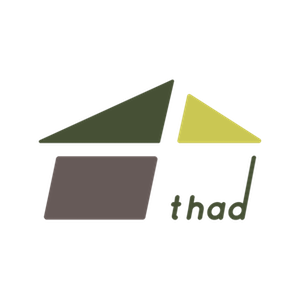
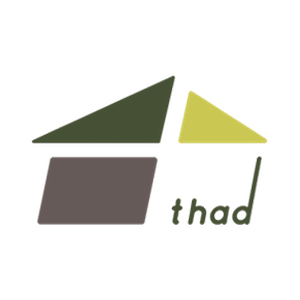
ロゴ修正、微調整など

diff --git a/index.html b/index.html
@@ -1,10 +1,20 @@
 <!DOCTYPE html>
 <html>
 <head>
+  <!-- Global site tag (gtag.js) - Google Analytics -->
+  <script async src="https://www.googletagmanager.com/gtag/js?id=UA-117938989-1"></script>
+  <script>
+    window.dataLayer = window.dataLayer || [];
+    function gtag(){dataLayer.push(arguments);}
+    gtag('js', new Date());
+
+    gtag('config', 'UA-117938989-1');
+  </script>
   <meta charset="UTF-8">
   <meta name="viewport" content="width=device-width,initial-scale=1">
   <meta name="description" content="名古屋市立大学芸術工学部の作品展「卓展」の告知webサイトです。">
   <title>卓展2018</title>
+  <link href="https://fonts.googleapis.com/earlyaccess/roundedmplus1c.css" rel="stylesheet" />
   <link rel="stylesheet" type="text/css" href="css/normalize.css">
   <link rel="stylesheet" type="text/css" href="css/bulma.css">
   <link rel="stylesheet" type="text/css" href="css/default.css">
@@ -35,7 +45,7 @@
         </div>
       </div>
 
-      <p class="font-small has-text-grey text-center l-bottom-20"><i class="fas fa-arrow-down"></i> ロゴをクリックしたらスライドが見れるよ！</p>
+      <p class="font-small has-text-grey text-center l-bottom-10"><i class="fas fa-arrow-down"></i> ロゴをクリックしたらスライドが見れるよ！</p>
       <div class="logo-container columns is-multiline is-mobile">
         <!-- jQueryでコンテンツ生成 -->
       </div>
@@ -70,7 +80,8 @@
               <img src="img/LQQP.png">
             </div>
             <p class="group-discription">
-              LQQP (ループ) は映像・音楽を作ることを中心とした卓です。グラデーションを基調としたビジュアルからわかる通りあらゆる要素が混ざり合ってスムースに繫がるような作品づくりを目指していきます。
+              LQQP (ループ) は映像・音楽を作ることを中心とした卓です。<br>
+              グラデーションを基調としたビジュアルからわかる通りあらゆる要素が混ざり合ってスムースに繫がるような作品づくりを目指していきます。
             </p>
           </div>
           <div class="column is-three-quarters">
@@ -90,12 +101,14 @@
               <img src="img/cetrois.png">
             </div>
             <p class="group-discription">
-              CE TROISはカーデザインを学ぶ卓です。スケッチからカラーやマテリアル、クレイモデルまでのカーデザインの一連の流れを学ぶことで、表現力の向上を図ります。クルマやかっこいいデザインがしたい人はぜひ参加してください！
+              CETROISはカーデザインを学ぶ卓です。<br>
+              スケッチからカラーやマテリアル、クレイモデルまでのカーデザインの一連の流れを学ぶことで、表現力の向上を図ります。<br>
+              クルマやかっこいいデザインがしたい人はぜひ参加してください！
             </p>
           </div>
           <div class="column is-three-quarters">
             <div class="group-slide">
-              <iframe class="group-iframe" src="https://docs.google.com/presentation/d/e/2PACX-1vQbAdpINhyE9c7J-EsZ4ObmlzYHjx_J4DpL6nQcpBZx6iBNocj8VQjlqJSLfqXReoRGUi7f3vM5DuTp/embed?start=false&loop=false&delayms=3000" frameborder="0" width="1365" height="1053" allowfullscreen="true" mozallowfullscreen="true" webkitallowfullscreen="true"></iframe>
+              <iframe class="group-iframe" src="https://docs.google.com/presentation/d/e/2PACX-1vRsnMyh0IZDh0-3G-mf8otB4qqjnamilE0CqW-_SyYDEZLHHnSsY03n6F3CT9NvFUei56eATVy3KT8s/embed?start=false&loop=false&delayms=3000" frameborder="0" width="1365" height="1053" allowfullscreen="true" mozallowfullscreen="true" webkitallowfullscreen="true"></iframe>
             </div>
           </div>
         </div>
@@ -110,12 +123,13 @@
               <img src="img/asso.png">
             </div>
             <p class="group-discription">
-              assoはユーザーにとっての「うれしい体験」を追求したIoTプロダクト・サービスをデザインする卓。一連のプロダクトデザインのプロセスを実践し、その人にとって本当に使いたいと思えるようなモノとコトを提案します。
+              うれしい体験」を追求したプロダクト・サービスをデザインする卓。<br>
+              一連のプロダクトデザインのプロセスを実践し、その人にとって本当に使いたいと思えるようなモノとコトを提案します
             </p>
           </div>
           <div class="column is-three-quarters">
             <div class="group-slide">
-              <iframe class="group-iframe" src="https://docs.google.com/presentation/d/e/2PACX-1vTF2C5he2optEWBs7yZNhxeYtsw1CAXu4oz9gbQV6EUNhjlZ4gVlS_s3XCOAO8fA8dRHXyBY-xySa6R/embed?start=false&loop=false&delayms=3000" frameborder="0" allowfullscreen="true" mozallowfullscreen="true" webkitallowfullscreen="true"></iframe>
+              <iframe class="group-iframe" src="https://docs.google.com/presentation/d/e/2PACX-1vTv7dAfXwLCQJJO4qjXAMjGsG1GbPTPF2BAlKaaZ1-t8KZIhRTyJKd8LtPRAoJT5lp_gnZaJ9BXISv6/embed?start=false&loop=false&delayms=3000" frameborder="0" allowfullscreen="true" mozallowfullscreen="true" webkitallowfullscreen="true"></iframe>
             </div>
           </div>
         </div>
@@ -130,7 +144,9 @@
               <img src="img/dotus.png">
             </div>
             <p class="group-discription">
-              dotusはプロダクトデザインについて学ぶ卓です。ハンディ家電を一人一つ提案してもらい、モックアップまで行います。カタチを考える時間を多く取り、ユーザビリティ（使いやすさなど）や魅力のある造形を追求します
+              dotusはプロダクトデザインについて学ぶ卓です。<br>
+              ハンディ家電を一人一つ提案してもらい、モックアップまで行います。<br>
+              カタチを考える時間を多く取り、ユーザビリティ（使いやすさなど）や魅力のある造形を追求します。
             </p>
           </div>
           <div class="column is-three-quarters">
@@ -150,8 +166,9 @@
               <img src="img/ideal.png">
             </div>
             <p class="group-discription">
-              idealは各人が想像する未来のデジタルコンテンツを制作する卓です。
-              ideal(理想)への様々なアプローチを考え(idea)、対処(I deal)していく過程を大切にします。未来の成功の糧になる失敗を私としませんか?
+              idealは各人が想像する未来のデジタルコンテンツを制作する卓です。<br>
+              ideal(理想)への様々なアプローチを考え(idea)、対処(I deal)していく過程を大切にします。<br>
+              未来の成功の糧になる失敗を私としませんか?
             </p>
           </div>
           <div class="column is-three-quarters">
@@ -171,7 +188,8 @@
               <img src="img/ZAxis.png">
             </div>
             <p class="group-discription">
-              Z-Axis（ザクシス）は、3DCGを用いたコンテンツ制作をする卓です。映像・ゲーム・立体造形に関わる3DCGソフトウェアについての学習をメインに、各々が魅力的だと感じるコンテンツの制作を目指します。
+              Z-Axis（ザクシス）は、3DCGを用いたコンテンツ制作をする卓です。<br>
+              映像・ゲーム・立体造形に関わる3DCGソフトウェアについての学習をメインに、各々が魅力的だと感じるコンテンツの制作を目指します。
             </p>
           </div>
           <div class="column is-three-quarters">
@@ -191,12 +209,13 @@
               <img src="img/mico.png">
             </div>
             <p class="group-discription">
-              mico（ミーコ）は日常の小さな問題をスマートに解決するアイデア雑貨を制作する卓です。アイデア展開とプロトタイピング（試作）を中心的に行い、斬新で実用的なモノを考え、最終的には実物を作ります。
+              mico（ミーコ）は日常の小さな問題をスマートに解決するアイデア雑貨を制作する卓です。<br>
+              アイデア展開とプロトタイピング（試作）を中心的に行い、斬新で実用的なモノを考え、最終的には実物を作ります。
             </p>
           </div>
           <div class="column is-three-quarters">
             <div class="group-slide">
-              <iframe class="group-iframe" src="  https://docs.google.com/presentation/d/e/2PACX-1vR4WFsEk8Xc7epjjvbEqUnpg82npDhM8PC7f507lc6nDH_SjwIpT71zuEXyLAGyBXP6tbDRThfG9kGh/embed?start=false&loop=false&delayms=3000&slide=id.p10" frameborder="0" marginwidth="0" marginheight="0" scrolling="no" allowfullscreen></iframe>
+              <iframe class="group-iframe" src="  https://docs.google.com/presentation/d/e/2PACX-1vR4WFsEk8Xc7epjjvbEqUnpg82npDhM8PC7f507lc6nDH_SjwIpT71zuEXyLAGyBXP6tbDRThfG9kGh/embed?start=false&loop=false&delayms=3000" frameborder="0" marginwidth="0" marginheight="0" scrolling="no" allowfullscreen></iframe>
             </div>
           </div>
         </div>
@@ -211,7 +230,8 @@
               <img src="img/Ex.png">
             </div>
             <p class="group-discription">
-              Exはインスタレーションを学ぶ卓です。ディスカッションをメインに各々のアイデアの幅を広げていきたいと考えています。
+              Exはインスタレーションを学ぶ卓です。<br>
+              ディスカッションをメインに各々のアイデアの幅を広げていきたいと考えています。<br>
               自分の世界観をインスタレーションで表現してみませんか？
             </p>
           </div>
@@ -232,7 +252,8 @@
               <img src="img/Charamel.png">
             </div>
             <p class="group-discription">
-              Charamel（キャラメル）はキャラクターや世界観を創造する卓です。勉強会で表現の仕方を学び、映像や本、模型やグッズなど様々な方法で自分の想いをカタチにしていきます
+              Charamel（キャラメル）はキャラクターや世界観を創造する卓です。<br>
+              勉強会で表現の仕方を学び、映像や本、模型やグッズなど様々な方法で自分の想いをカタチにしていきます。
             </p>
           </div>
           <div class="column is-three-quarters">
@@ -252,17 +273,13 @@
               <img src="img/paplica.png">
             </div>
             <p class="group-discription">
-              paplica(パプリカ)はスマホアプリを作る卓です。
-              「こんなアプリがあったらいいな」などの思いからアイディアを提案し、
-              誰がどのようにアプリを使うのかを考えて、実際に動くアプリを作ります。<br><br>
-
-              【webサイト】<br>
-              <a href="#">taku-ten.com/paplica</a>
+              paplica(パプリカ)はスマホアプリを作る卓です。<br>
+              「こんなアプリがあったらいいな」などの思いからアイディアを提案し、誰がどのようにアプリを使うのかを考えて、実際に動くアプリを作ります。
             </p>
           </div>
           <div class="column is-three-quarters">
             <div class="group-slide">
-              <iframe class="group-iframe" src="" frameborder="0" marginwidth="0" marginheight="0" scrolling="no" allowfullscreen></iframe>
+              <iframe class="group-iframe" src="https://docs.google.com/presentation/d/e/2PACX-1vQ22zx4G3ppf6Z0n1zG0K0_l1toE6Je72aHT59okGzxU22YEQiz4M9Q6rys2GknrsXBfGERpWd78uRK/embed?start=false&loop=false&delayms=3000" frameborder="0" marginwidth="0" marginheight="0" scrolling="no" allowfullscreen></iframe>
             </div>
           </div>
         </div>
@@ -277,18 +294,19 @@
               <img src="img/thad.png">
             </div>
             <p class="group-discription">
-              thad
+              thad(サッド)は「名前のつかない家具」を提案し、制作する卓です。<br>
+              既存の型にあてはまらない新しい家具をつくることを目指します。
             </p>
           </div>
           <div class="column is-three-quarters">
             <div class="group-slide">
-              <iframe class="group-iframe" src="" frameborder="0" marginwidth="0" marginheight="0" scrolling="no" allowfullscreen></iframe>
+              <iframe class="group-iframe" src="https://docs.google.com/presentation/d/e/2PACX-1vRY3aBTIsYdDNt6SUmYBXwHn7E-UXv0OpVM9KMluSiw8dM7tjIGAbjJ12UO5qxMnUOIQ6JmVDixSmj4/embed?start=false&loop=false&delayms=3000" frameborder="0" marginwidth="0" marginheight="0" scrolling="no" allowfullscreen></iframe>
             </div>
           </div>
         </div>
       </div>
       <!-- ▲ thad -->
-      <!-- ▼ thad-->
+      <!-- ▼ me-->
       <div class="remodal" data-remodal-id="ME">
         <button data-remodal-action="close" class="remodal-close"></button>
         <div class="columns">
@@ -298,7 +316,8 @@
             </div>
             <p class="group-discription">
               ZINEをつくる。<br>
-              ワークショップで雑誌の制作工程やZINEについてを学びながら、最終的には自由な形式でZINEを制作。コンセプトやテーマをしっかりと掲げ、自分の表現したい世界観や価値観を紙面に落とし込んでいきます
+              ワークショップで雑誌の制作工程やZINEについてを学びながら、最終的には自由な形式でZINEを制作。<br>
+              コンセプトやテーマをしっかりと掲げ、自分の表現したい世界観や価値観を紙面に落とし込んでいきます。
             </p>
           </div>
           <div class="column is-three-quarters">
@@ -308,7 +327,7 @@
           </div>
         </div>
       </div>
-      <!-- ▲ thad -->
+      <!-- ▲ me -->
     </div>
   </body>
 </html>

diff --git a/js/script.js b/js/script.js
@@ -1,5 +1,5 @@
 $(function(){
-  const DIR_IMAGE = "img/"
+  const DIR_IMAGE = "img"
 
   // 卓
   var group = [
@@ -107,8 +107,16 @@ $(function(){
 
     $('.logo-container').append(`
       <div class="column is-one-fifth-desktop is-half-mobile is-multiline">
-      <a data-remodal-target="${id}"><img class='remodal-btn' id='${num}' src='${imgUrl}' alt="${name}のロゴ"/></a>
+      <a data-remodal-target="${id}" ><img class='remodal-btn' id='${id}' src='${imgUrl}' alt="${name}のロゴ"/></a>
       </div>`
     );
   }
+
+    var clickId;
+    $('.remodal-btn').on('click',function(){
+      clickId = $(this).attr('id');
+      gtag('event', 'click',
+      {'event_category': clickId,
+       'value': '1'});
+    });
 });

diff --git a/css/default.css b/css/default.css
@@ -1,4 +1,7 @@
-
+body {
+  font-family: "Rounded Mplus 1c";
+  line-height: 1.8;
+}
 /* font-size */
 .font-xxsmall {
   font-size: 8px;

diff --git a/css/style.css b/css/style.css
@@ -1,4 +1,5 @@
 a {
+  display: block;
   width: 100%;
   height: 100%;
 }
